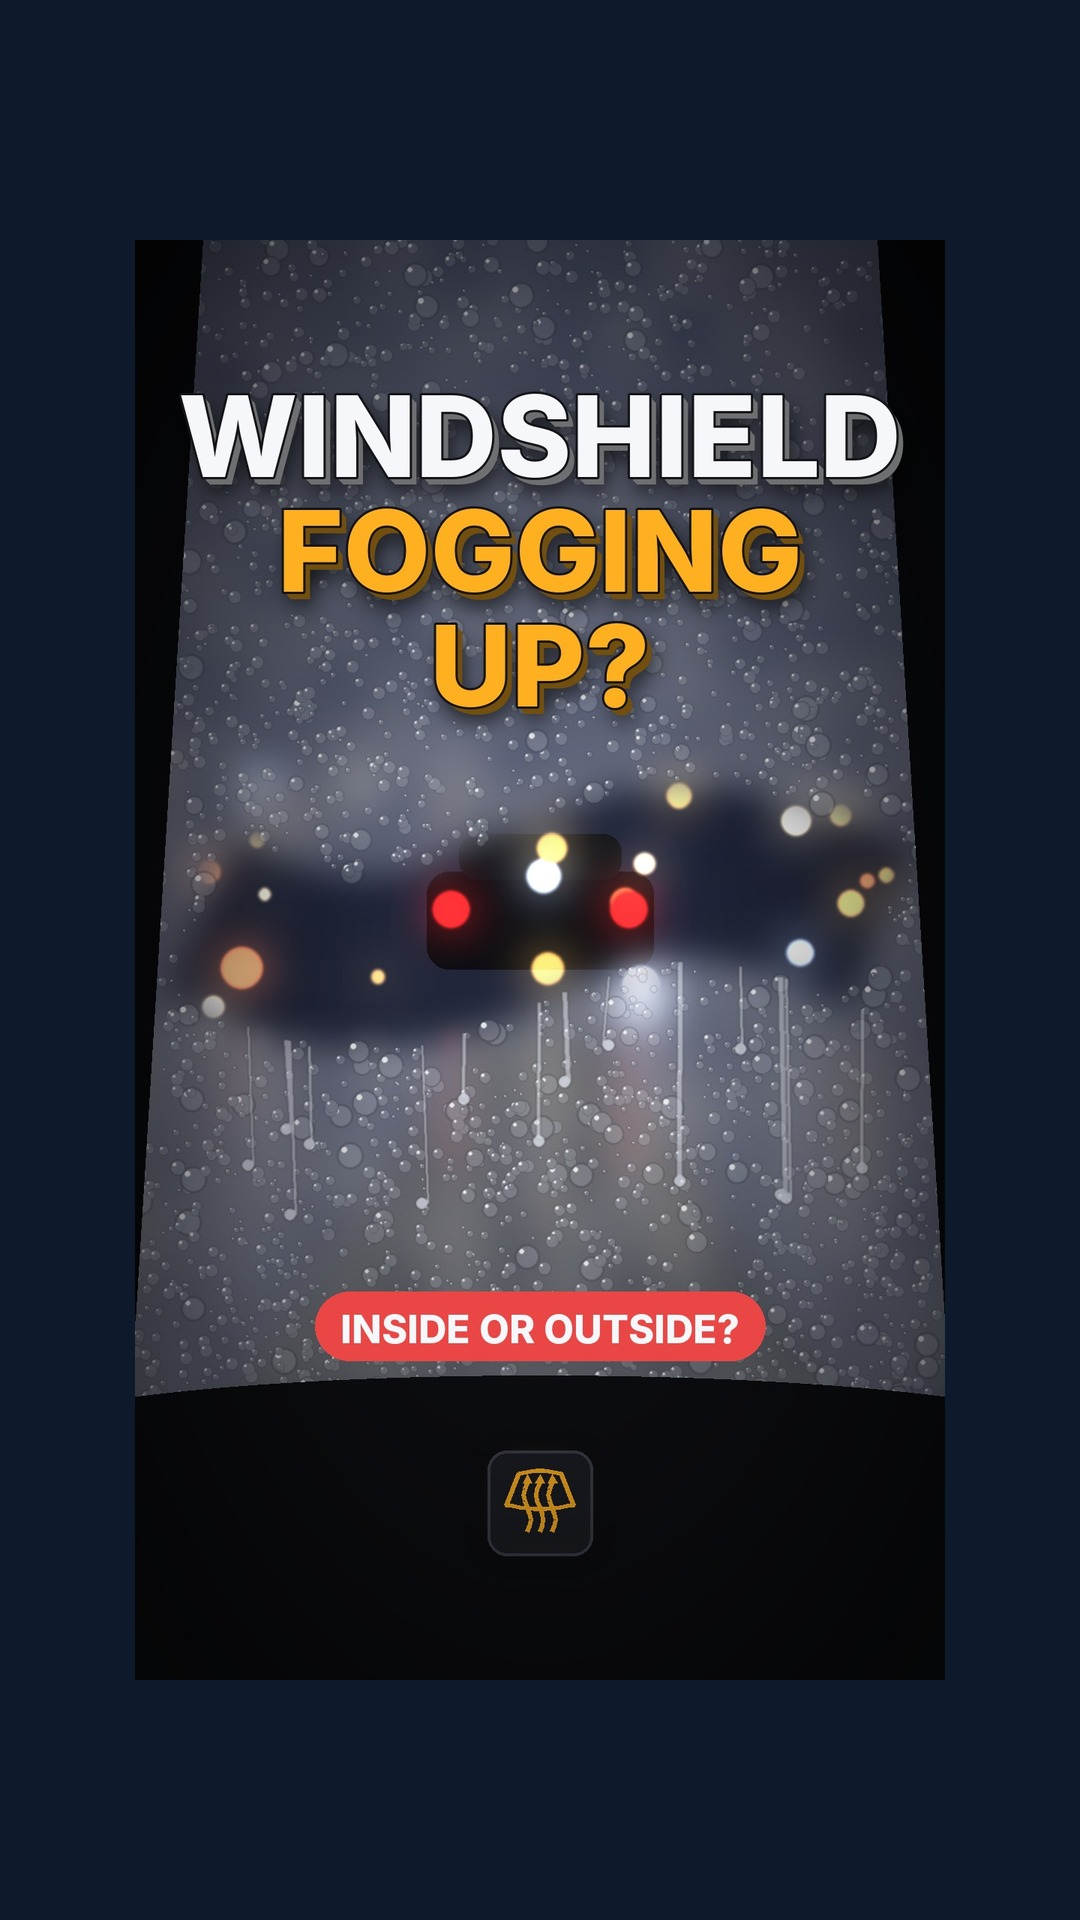
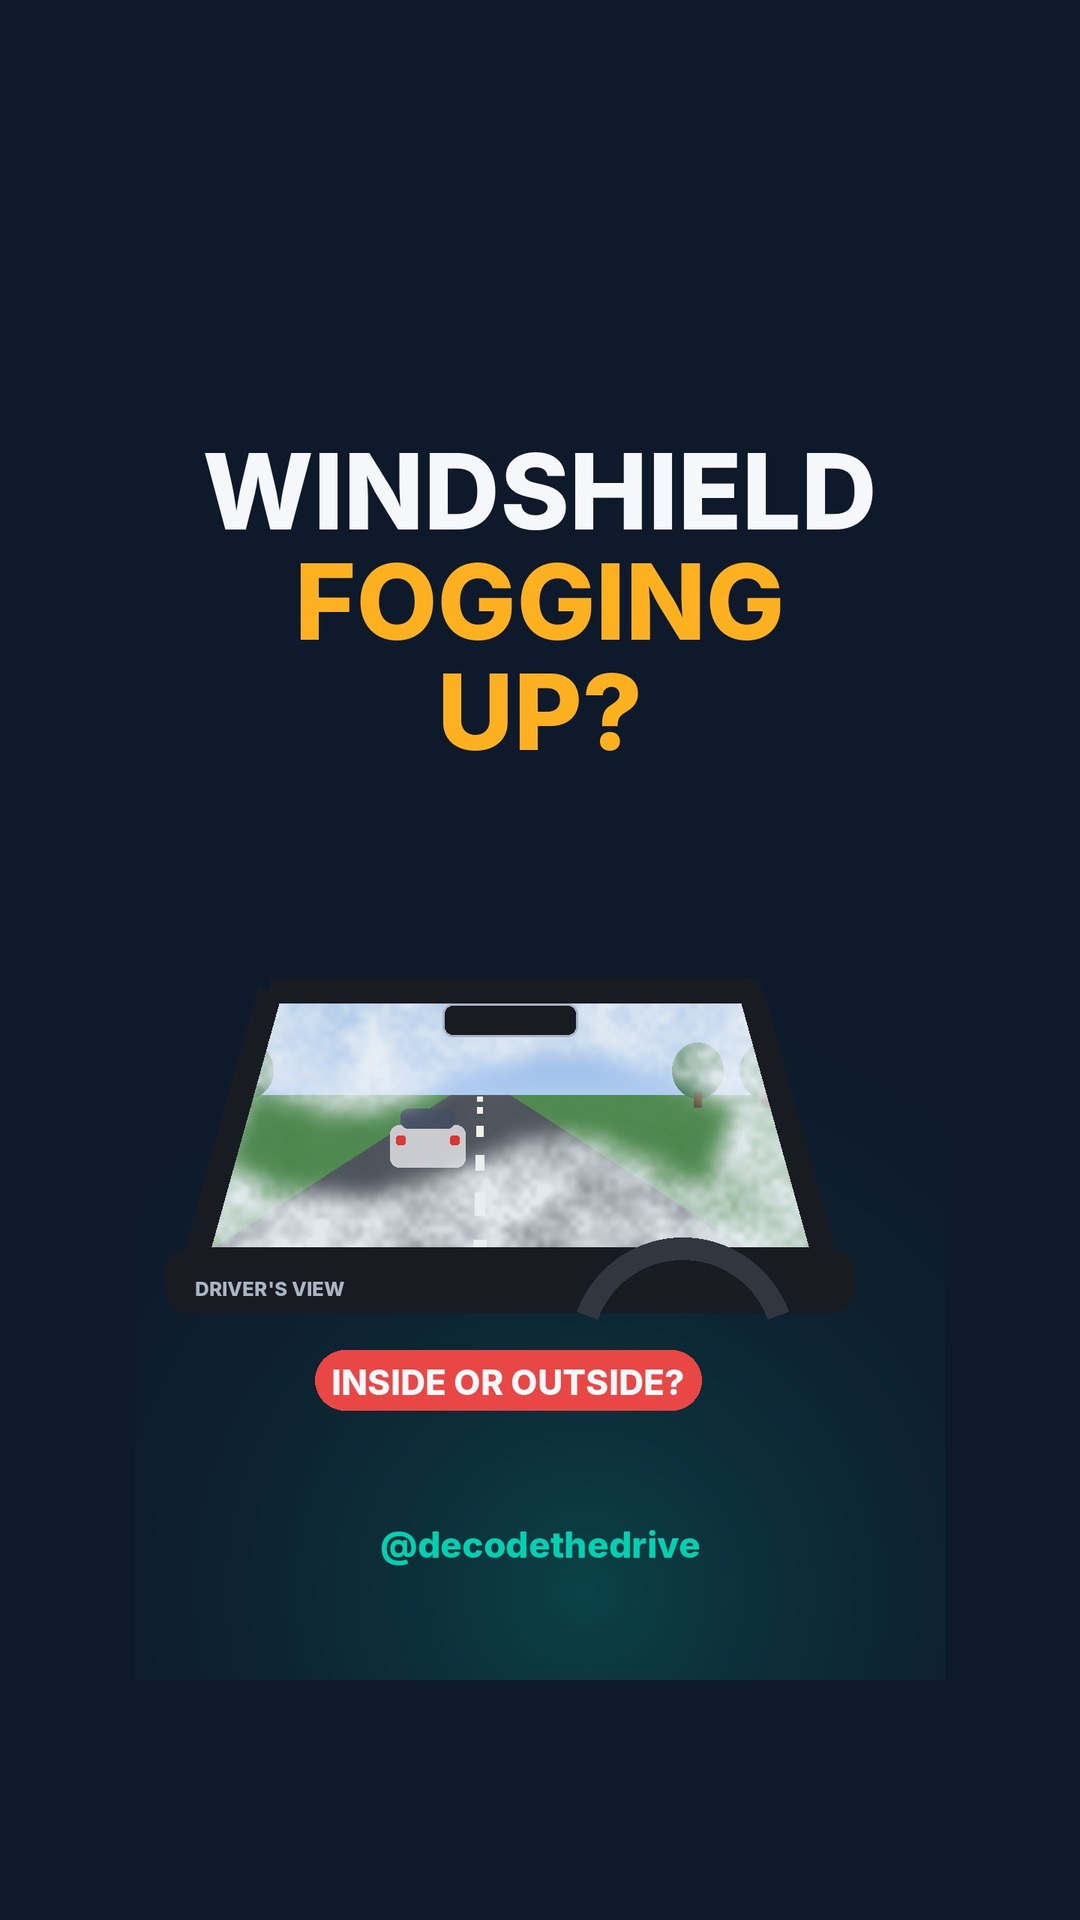
Fog reel: keep the approved drawn thumbnail until a real photo arrives
Claude-Session: https://claude.ai/code/session_019nGMK1H6NFztfiBrf6fioQ

diff --git a/agent/motion.py b/agent/motion.py
@@ -236,8 +236,7 @@ def _write_sfx(cues, total, path):
 
 def formats():
     """Animated formats: reel_style -> (scene builder, thumbnail designer)."""
-    from .motion_fog import fog_scenes
-    from .photoreal import fog_photo_thumbnail as fog_thumbnail
+    from .motion_fog import fog_scenes, fog_thumbnail
     from .motion_visuals import VISUALS, visual_scenes, visual_thumbnail
     return {"meter": (meter_scenes, meter_thumbnail), "fog": (fog_scenes, fog_thumbnail),
             **{name: (visual_scenes, visual_thumbnail) for name in VISUALS}}
